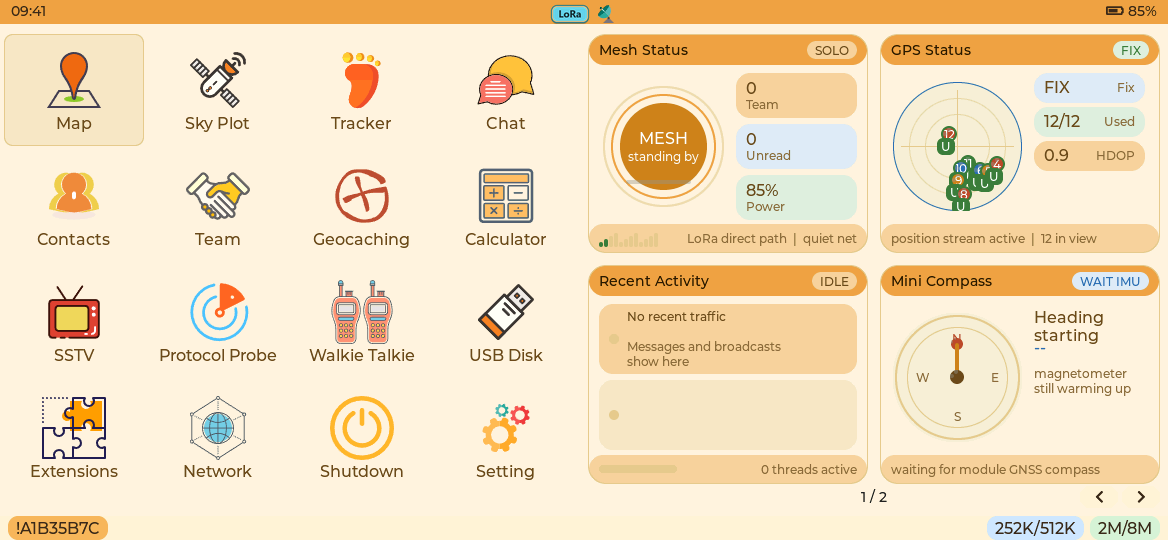
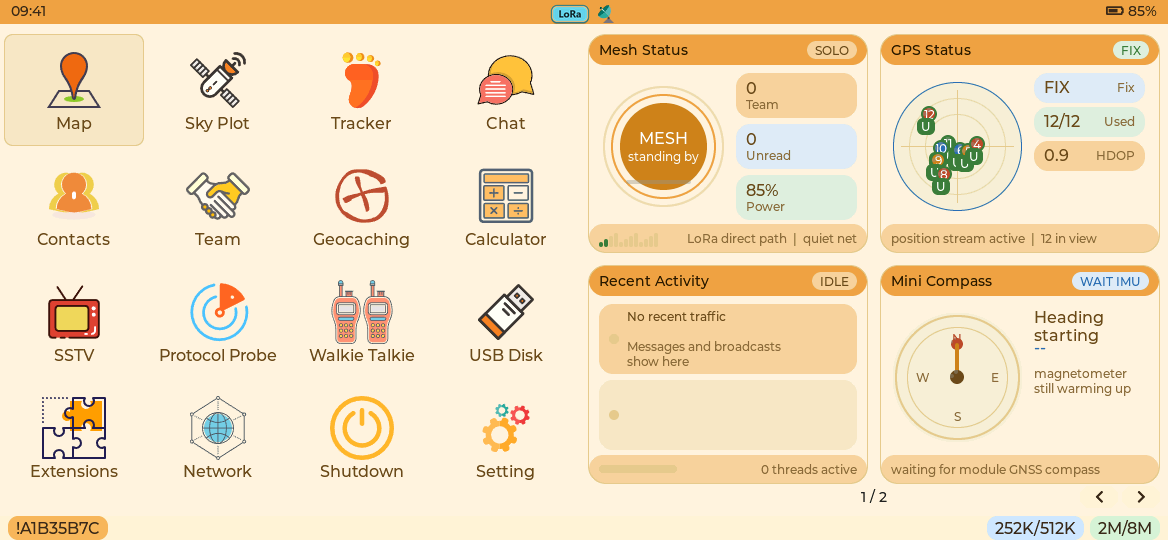
Resolve first-frame skyplot geometry and refresh source inventory

Changed region(s): [[0.7705, 0.1778, 0.863, 0.3852]]

diff --git a/modules/ui_shared/src/ui/menu/dashboard/dashboard_gps_widget.cpp b/modules/ui_shared/src/ui/menu/dashboard/dashboard_gps_widget.cpp
@@ -137,6 +137,7 @@ WidgetHandle create_gps_widget(lv_obj_t* parent, lv_coord_t card_w, lv_coord_t c
     lv_obj_set_style_bg_color(gps_ui.radar, lv_color_hex(0xF7ECD2), 0);
     lv_obj_set_style_bg_opa(gps_ui.radar, LV_OPA_COVER, 0);
     lv_obj_set_style_border_width(gps_ui.radar, 0, 0);
+    lv_obj_set_style_pad_all(gps_ui.radar, 0, 0);
     lv_obj_set_style_radius(gps_ui.radar, LV_RADIUS_CIRCLE, 0);
     lv_obj_clear_flag(gps_ui.radar, LV_OBJ_FLAG_SCROLLABLE);
 
@@ -200,6 +201,9 @@ WidgetHandle create_gps_widget(lv_obj_t* parent, lv_coord_t card_w, lv_coord_t c
     style_footer_label(gps_ui.footer_label);
     lv_obj_align(gps_ui.footer_label, LV_ALIGN_LEFT_MID, 0, 0);
     ::ui::i18n::set_label_text(gps_ui.footer_label, "searching satellites");
+    // Satellite coordinates are computed on the first refresh, before LVGL's
+    // next frame. Resolve the new radar's dimensions before exposing the handle.
+    lv_obj_update_layout(gps_ui.chrome.card);
     return own_widget(gps_ui.chrome.card, memory, refresh_gps_widget, 2000);
 }
 

diff --git a/modules/ui_shared/src/ui/menu/menu_dashboard.cpp b/modules/ui_shared/src/ui/menu/menu_dashboard.cpp
@@ -232,7 +232,9 @@ bool isFeedOpen()
 }
 bool handleEncoder(int delta)
 {
-    if (!isFeedOpen() || delta == 0 || (lv_group_get_default() && lv_group_get_default() != menu_g)) return false;
+    if (!isFeedOpen() || delta == 0 || ui_is_overlay_active() ||
+        ui::menu_runtime::currentScene() != ui::menu_runtime::Scene::Menu ||
+        (lv_group_get_default() && lv_group_get_default() != menu_g)) return false;
     change_page(delta > 0 ? 1 : -1);
     return true;
 }

diff --git a/docs/locales/zh-Hans/web-outdoor-management/43-裸NVS入口与存储别名清单.md b/docs/locales/zh-Hans/web-outdoor-management/43-裸NVS入口与存储别名清单.md
@@ -2,7 +2,7 @@
 
 由 scripts/audit_nvs_access.mjs 扫描 ESP、共享 UI 和仓库 third_party 的 C/C++ 文件。只记录 NVS 函数、namespace/key/handle 实参和位置，不读取设备、不记录值/默认值/缓冲/分区名。不把最近的 nvs_open 自动推断为后续调用的 namespace；跨作用域句柄、宏和条件编译仍需人工核对。
 
-扫描 1531 个源文件，找到 106 个候选调用，分布于 8 个文件。显式打开 15，键访问 45，其余为提交/关闭/清域。调用数不是独立配置数。
+扫描 1535 个源文件，找到 106 个候选调用，分布于 8 个文件。显式打开 15，键访问 45，其余为提交/关闭/清域。调用数不是独立配置数。
 
 这是源码入口清单，不是全部配置或硬件生效证明。系统 SDK、构建环境依赖、其他平台、函数指针/包装器实参以及复杂原始字符串不由此表自动覆盖。依赖库可单独调用 collectNvsAccesses 指定根目录审计；输出应单独记录其版本，不能写进与机器无关的仓库清单。
 

diff --git a/docs/uiux/components/menu_widgets.md b/docs/uiux/components/menu_widgets.md
@@ -87,7 +87,9 @@ reallocations obey the external-memory policy.
 `tests/site/menu-widgets-native.test.mjs` compiles/runs the real production UI
 for Pager, T-Deck, L2 and both P4 panels. It checks adaptive columns, contextual
 encoder behavior, touch/key navigation, one visible widget, hidden-query
-suppression, lease release, repeated entry/exit and P4 paging. Setting
+suppression, lease release, repeated entry/exit and P4 paging. Satellite
+distribution is checked on the first frame: the radar has zero coordinate
+padding and resolves its dimensions before the first refresh. Setting
 `WIDGET_UI_ARTIFACT_DIR` saves actual RGB565-rendered PNGs and layout coordinates.
 The existing P4 lifecycle suite continues to exercise 250 container rebuilds
 per panel.
